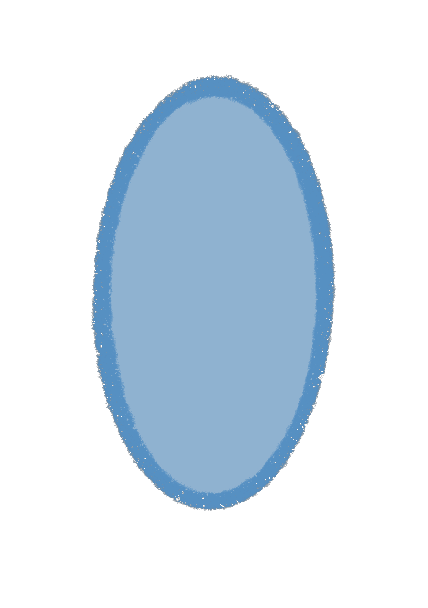
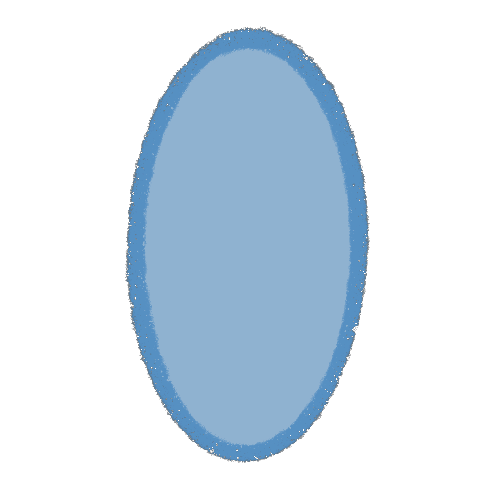
Image resize, GameAnswers useEffect
resized oval image to prevent game from resizing, removed dependency array on gameAnswers useEffect to reload page on every change (no dependency array, not an empty dependency array). This seems to prevent the correctAnswer from being null string.

Changed region(s): [[0.2126, 0.03, 0.7897, 0.93]]

diff --git a/src/components/GameComponents/GamePlayWindow.jsx b/src/components/GameComponents/GamePlayWindow.jsx
@@ -2,10 +2,6 @@ import React, { useState, useEffect } from 'react';
 // import Axios from 'axios';
 import { MoreOptions } from './GameUtilities';
 import {useSelector, useDispatch} from 'react-redux'
-// import Circle from '../../assets/Shapes/Circle.png'
-// import Oval from '../../assets/Shapes/Oval.png'
-// import Square from '../../assets/Shapes/Square.png'
-// import Triangle from '../../assets/Shapes/Triangle.png'
 import gameData from '../../data'
 import { startGame, assignAnswers, assignQuestionImage, assignCorrectAnswer, assignGameState } from '../../redux/slices/gameFunctionSlice'
 
@@ -15,65 +11,45 @@ import { startGame, assignAnswers, assignQuestionImage, assignCorrectAnswer, ass
 
 function GamePlayWindow (props) {
 
-let gameName = useSelector(state=>state.gameFunction.gameType)
-// let answers = useSelector(state=>state.gameFunction.answers)
-let currentGame = null;
-let currentQuestionImage = useSelector(state=>state.gameFunction.currentQuestionImage)
-let correctAnswer = useSelector(state=>state.gameFunction.correctAnswer)
-let currentQuestion = useSelector(state=>state.gameFunction.currentQuestion)
+    let gameName = useSelector(state=>state.gameFunction.gameType)
+    // let answers = useSelector(state=>state.gameFunction.answers)
+    let currentGame = null;
+    let currentQuestionImage = useSelector(state=>state.gameFunction.currentQuestionImage)
+    let correctAnswer = useSelector(state=>state.gameFunction.correctAnswer)
+    let currentQuestion = useSelector(state=>state.gameFunction.currentQuestion)
 
+    const dispatch = useDispatch()
 
-const dispatch = useDispatch()
-
-// console.log("in Game Play Window answres", answers)
-// console.log("in GPW gameData", gameName, gameData.length, Object.values(gameData[1]).includes(gameName))
-
-const findCurrentGame = () => {
-    for(const property in gameData) {
-       // console.log("in FindGameType", `${property}: ${gameData[property].gameType}`)
-        if (gameData[property].gameType == gameName) {
-            currentGame = gameData[property].games
-        }
+    const findCurrentGame = () => {
+        for(const property in gameData) {
+            if (gameData[property].gameType == gameName) {
+                currentGame = gameData[property].games
+            }
+            
+            console.log("in FindCurrentGame", currentGame)
         
-        console.log("in FindCurrentGame", currentGame)
-       
+        }
+    };
+
+    const playCurrentGame = (props) => {
+        console.log("inPlayCurrentGame currentQuestion", currentQuestion, currentGame.length)
+        if (currentQuestion < currentGame.length){
+            dispatch((assignAnswers(currentGame[currentQuestion].options)))
+            dispatch((assignQuestionImage(currentGame[currentQuestion].img)))
+            dispatch((assignCorrectAnswer(currentGame[currentQuestion].name)))
+            console.log("in playCurrentGame correct Answer", currentGame[currentQuestion].name)
+        } else {
+            dispatch(assignGameState('end'))
+        }
     }
-};
 
-const playCurrentGame = (props) => {
-    console.log("inPlayCurrentGame currentQuestion", currentQuestion, currentGame.length)
-    if (currentQuestion < currentGame.length){
-        dispatch((assignAnswers(currentGame[currentQuestion].options)))
-        dispatch((assignQuestionImage(currentGame[currentQuestion].img)))
-        dispatch((assignCorrectAnswer(currentGame[currentQuestion].name)))
-        console.log("in playCurrentGame correct Answer", currentGame[currentQuestion].name)
-    } else {
-        dispatch(assignGameState('end'))
-    }
-
-    // for ( i in currentGame) {
-    //     //console.log("in playCurrentGame name",`${property}: ${currentGame[property].name}`)
-
-    //     console.log("In playCurrentGame options", currentGame[i].options)
-    //     console.log("In playCurrentGame img ", currentGame[i].img)
-    
-    //     dispatch((assignAnswers(currentGame[i].options)))
-    //     currentQuestionImage = currentGame[i].img
-    //     dispatch((assignQuestionImage(currentQuestionImage)))
-    //     // console.log("in showCurrentQuestion", currentQuestionImage)S
-    //     setImage(currentQuestionImage)
-       
-    // }
-}
-
-    
-useEffect(()=> {
-    gameName = window.location.pathname.slice(6)
-    dispatch(startGame(gameName))
-    findCurrentGame();
-    //console.log("in useEffect CurrentGame", currentGame)
-    playCurrentGame();
-}, [currentQuestion]);  
+    useEffect(()=> {
+        gameName = window.location.pathname.slice(6)
+        dispatch(startGame(gameName))
+        findCurrentGame();
+        //console.log("in useEffect CurrentGame", currentGame)
+        playCurrentGame();
+    }, [currentQuestion]);  
 
     return (
         <div className={props.cname}>

diff --git a/src/components/GameComponents/GameAnswers.jsx b/src/components/GameComponents/GameAnswers.jsx
@@ -1,6 +1,6 @@
 import React, { useEffect } from 'react';
-import { useSelector, useDispatch } from 'react-redux'
-import { advanceCurrentQuestion } from '../../redux/slices/gameFunctionSlice'
+import { useSelector, useDispatch } from 'react-redux';
+import { advanceCurrentQuestion } from '../../redux/slices/gameFunctionSlice';
 
 function GameAnswers (props) {
 
@@ -27,8 +27,8 @@ function GameAnswers (props) {
     }
 
     useEffect(()=> {
-        console.log(answerArr)
-    }, [answerArr]);  
+        console.log("in Useeffect GameAnswers", answerArr, correctAnswer)
+    });  
     
    
 

diff --git a/src/global.css b/src/global.css
@@ -14,7 +14,9 @@
     @apply text-xl font-bold tracking-wide;
   }
   .game-window-play {
-    @apply flex md:border-4 md:border-black md:flex-grow justify-center
+    @apply 
+      flex md:flex-grow 
+      md:border-4 md:border-black justify-center
   }
   .game-window-play__border {
     @apply m-1 border-4 border-black h-4/6 mb-6 mt-12 mx-3 md:border-0 grid grid-rows-4
